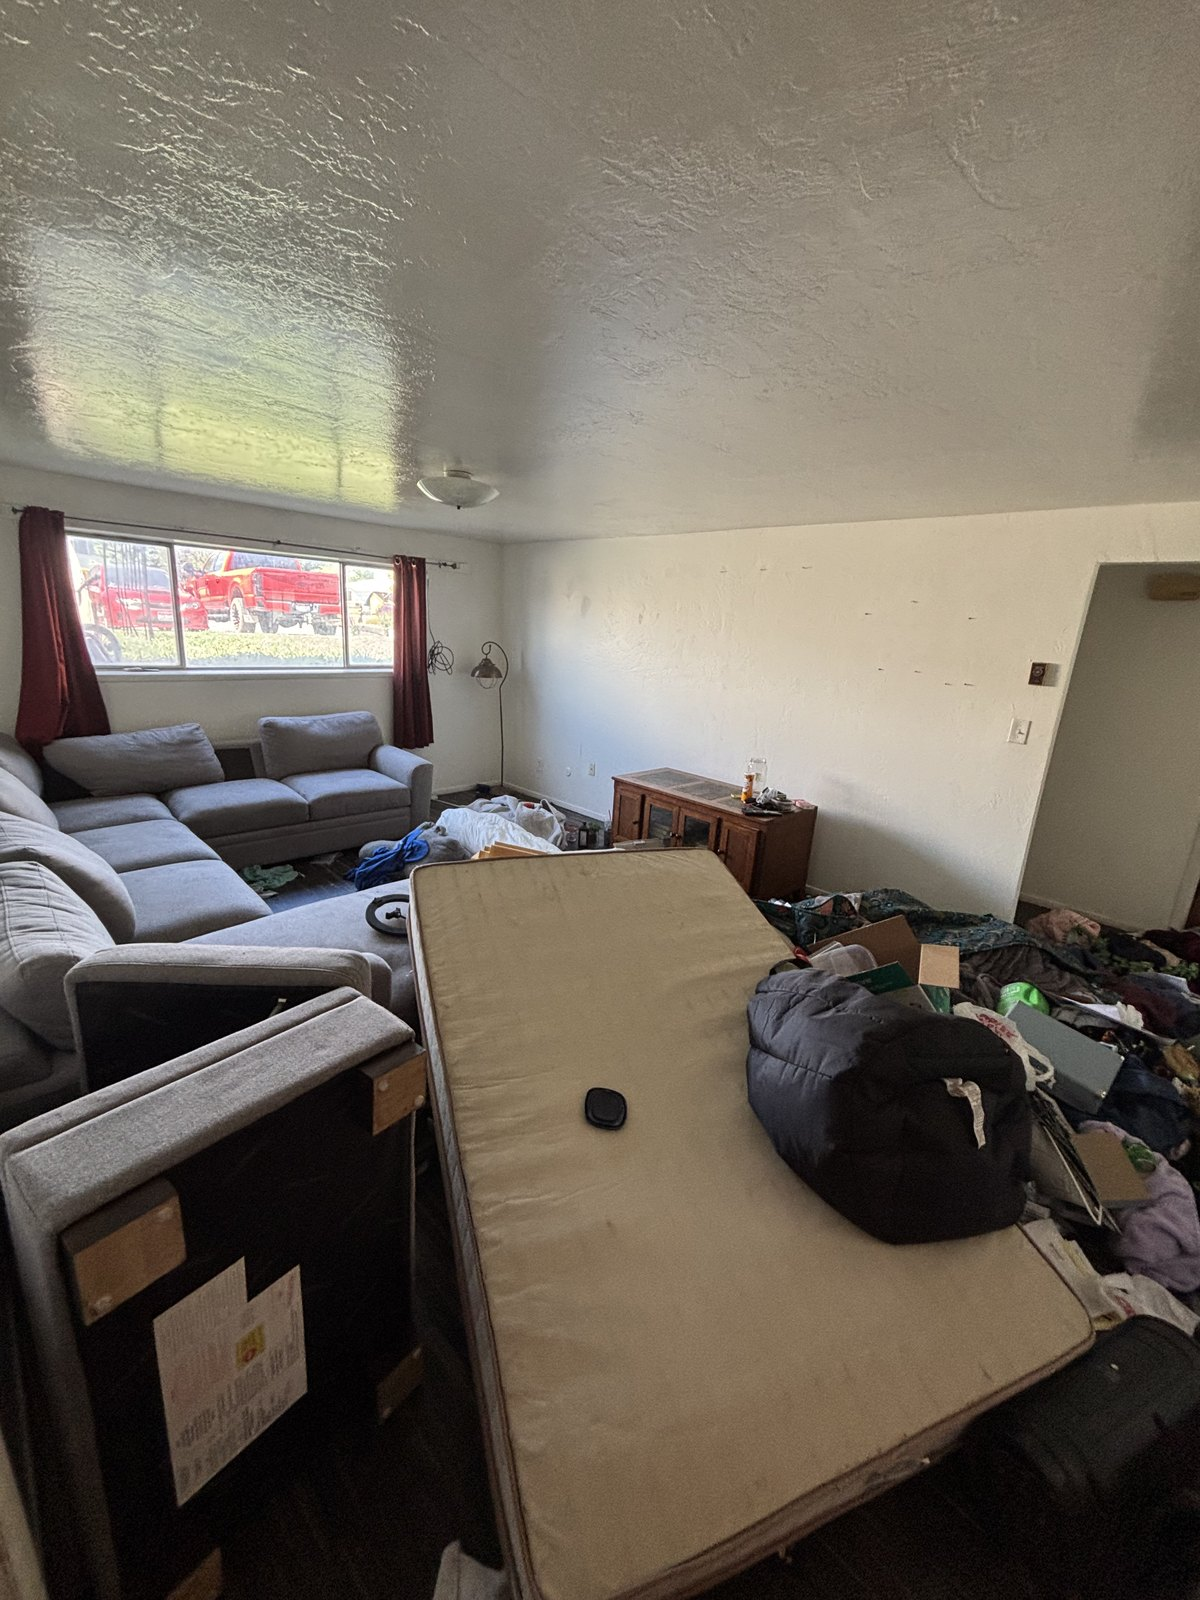
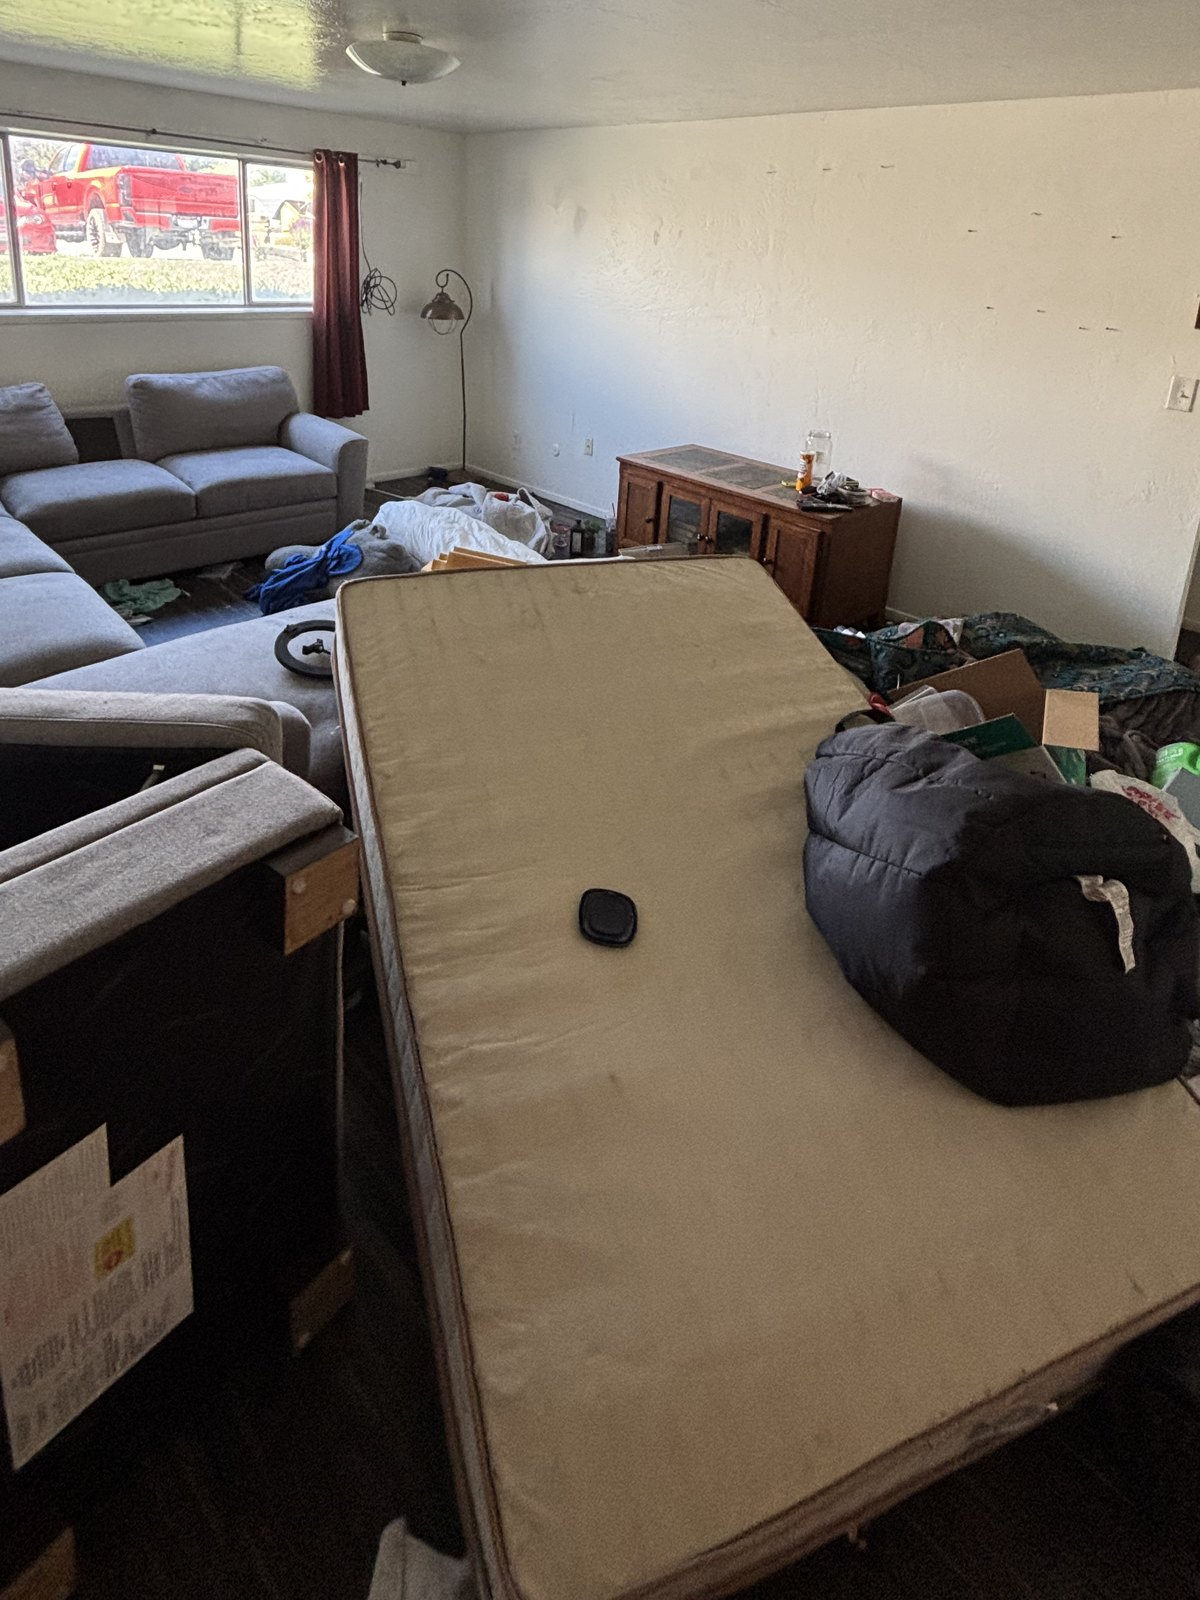
Fix hero before/after drag (overlay pointer-events) + re-crop photos to cut ceiling

diff --git a/index.html b/index.html
@@ -178,7 +178,7 @@ nav.shrink{background:rgba(15,11,7,.94);box-shadow:0 10px 40px -16px rgba(0,0,0,
 /* hero right: photo + parallax mountains */
 .hero-right{position:relative;overflow:hidden;border-left:1px solid var(--line);background:#0b0805}
 .hero-photo{position:absolute;inset:-8% 0;width:100%;height:116%;object-fit:cover;object-position:center 50%;opacity:1;filter:contrast(1.05) saturate(1.1)}
-.hero-right::after{content:'';position:absolute;inset:0;z-index:2;background:linear-gradient(90deg,var(--bg) 1%,transparent 26%,transparent 74%,rgba(20,16,10,.5)),linear-gradient(0deg,rgba(20,16,10,.7),transparent 45%)}
+.hero-right::after{content:'';position:absolute;inset:0;z-index:2;pointer-events:none;background:linear-gradient(90deg,var(--bg) 1%,transparent 24%,transparent 78%,rgba(20,16,10,.4)),linear-gradient(0deg,rgba(20,16,10,.5),transparent 38%)}
 .hero-badge{position:absolute;right:18px;bottom:18px;z-index:5;background:rgba(14,11,7,.82);border:1px solid var(--line2);border-radius:var(--r);padding:11px 14px;font-family:'Zilla Slab';font-weight:600;font-size:.66rem;letter-spacing:.1em;color:var(--muted);text-transform:uppercase;backdrop-filter:blur(4px)}
 .hero-badge .hl{color:var(--bourbon)}
 /* hero before/after slider — gritty */